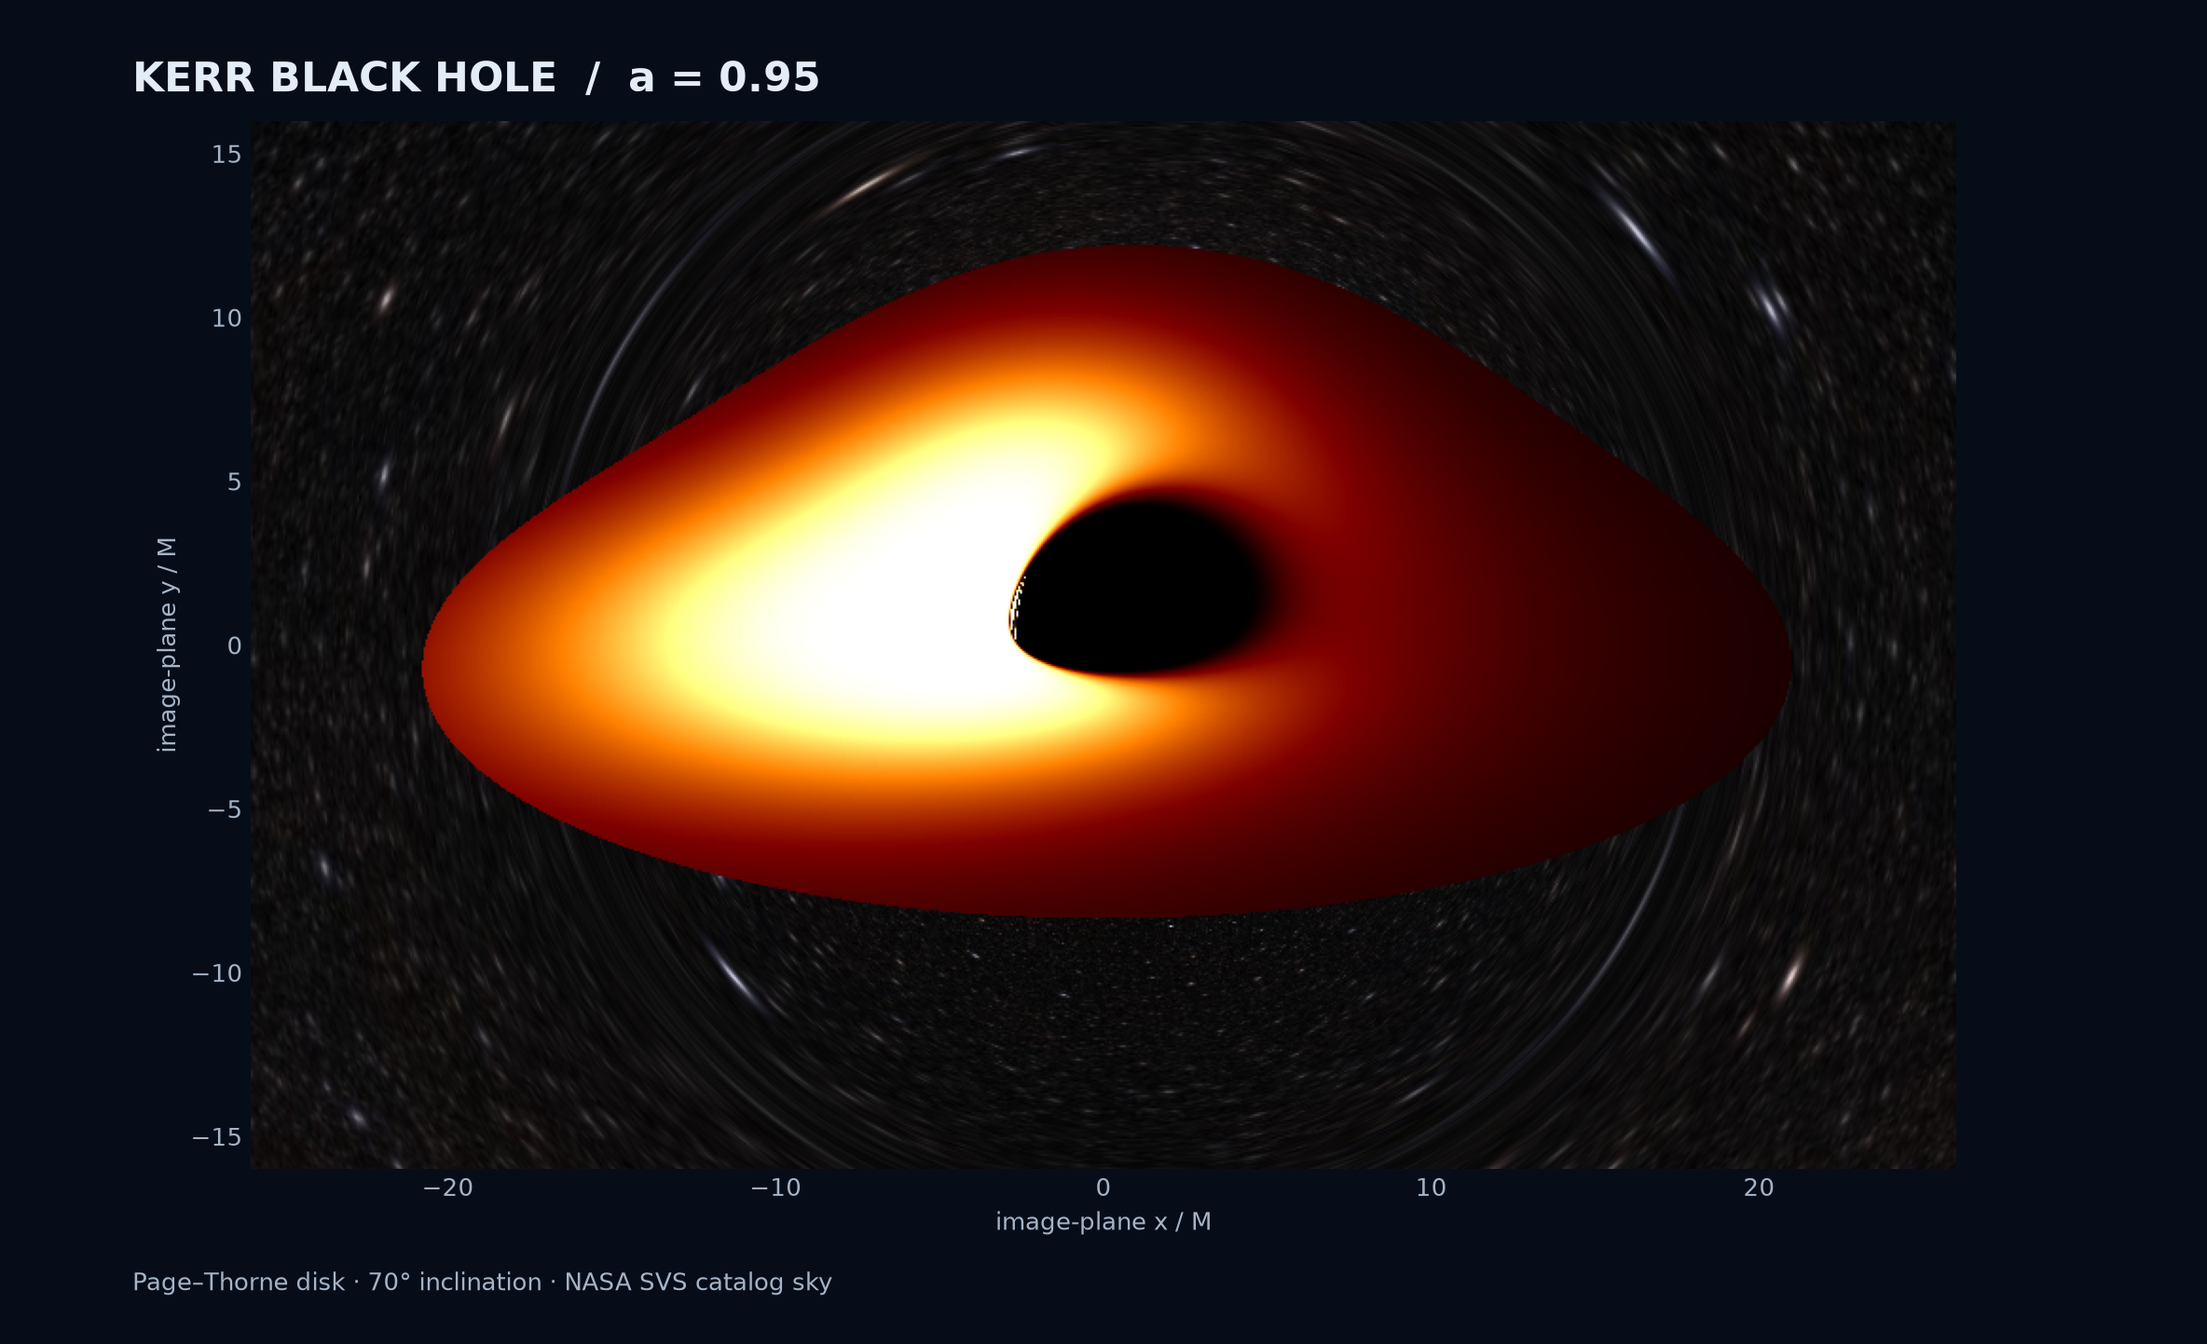
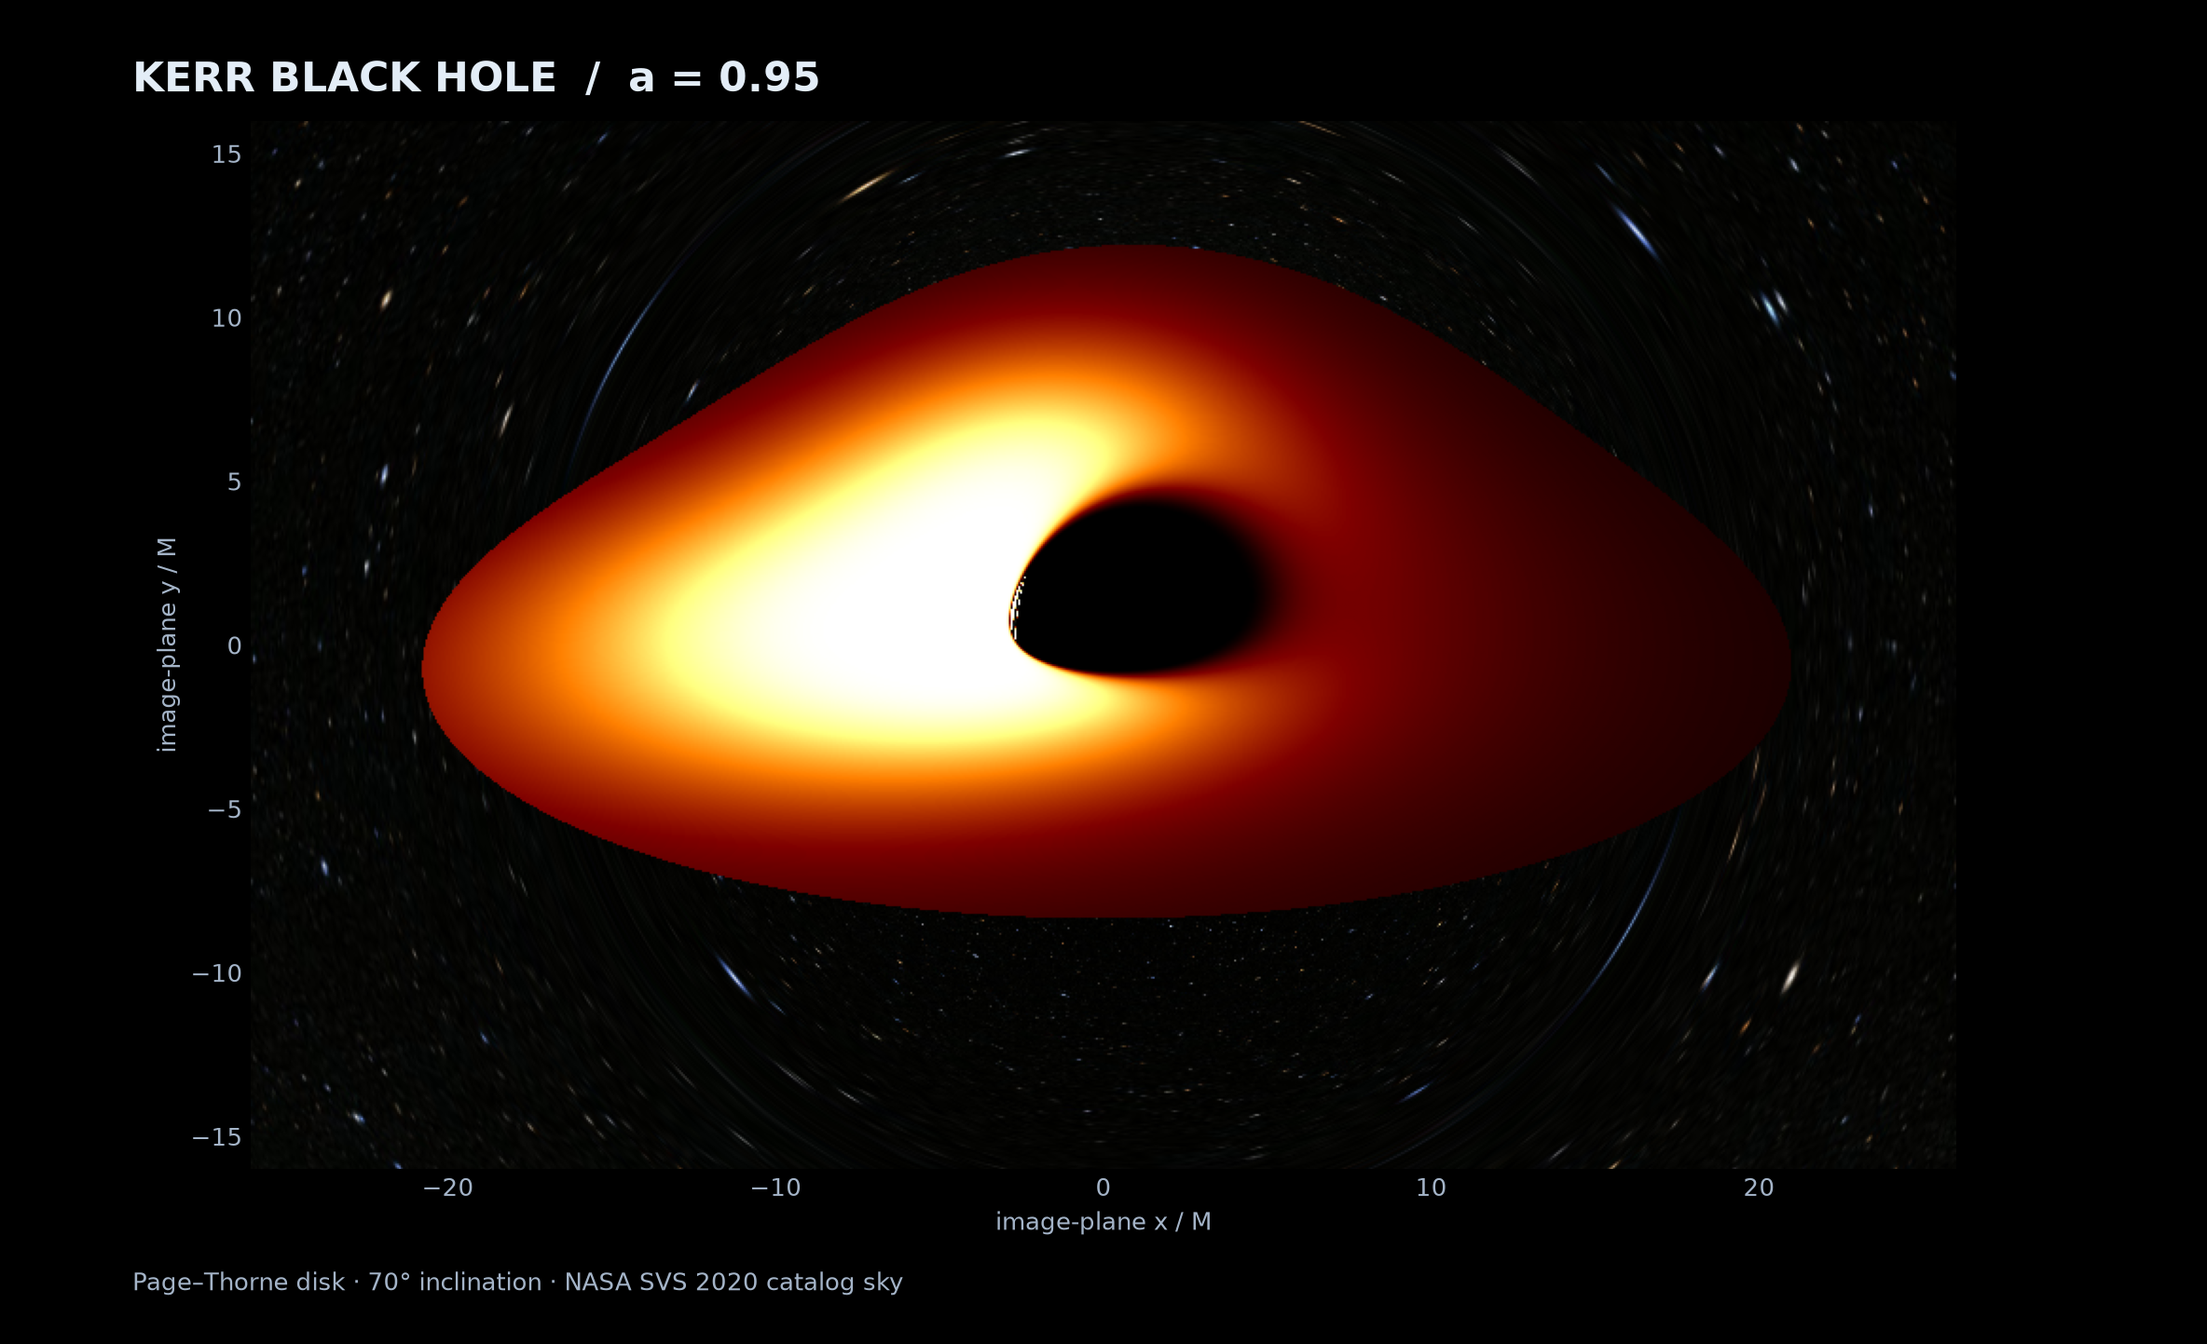
Restore gallery with colored catalog sky and black backgrounds

diff --git a/python/grayt/web/observer.css b/python/grayt/web/observer.css
@@ -1,9 +1,9 @@
-#observer-view{margin:32px 0 48px;background:#0d1420;border:1px solid #29384c;border-radius:14px;padding:24px}
+#observer-view{margin:32px 0 48px;background:#000;border:1px solid #333;border-radius:14px;padding:24px}
 #observer-view h2{font-size:28px;margin:0 0 10px}
 #observer-view .observer-toolbar{display:flex;flex-wrap:wrap;gap:14px;align-items:center;margin:16px 0}
-#observer-view button,#observer-view select{font:inherit;background:#1a293c;color:#e8eff9;border:1px solid #425974;border-radius:7px;padding:8px 12px;max-width:100%}
+#observer-view button,#observer-view select{font:inherit;background:#222;color:#e8eff9;border:1px solid #555;border-radius:7px;padding:8px 12px;max-width:100%}
 #observer-view button{cursor:pointer}
-#observer-view button:hover{background:#2a405b}
+#observer-view button:hover{background:#333}
 #observer-view :focus-visible{outline:2px solid #94d5ff;outline-offset:3px}
 #observer-view label{display:flex;gap:10px;align-items:center;flex-wrap:wrap;min-width:0}
 #observer-view input[type=range]{accent-color:#89c9fa;min-width:80px;max-width:100%}
@@ -13,7 +13,7 @@
 #observer-canvas{display:block;width:100%;height:100%;touch-action:none;cursor:grab}
 #observer-canvas:active{cursor:grabbing}
 #observer-poster{position:absolute;inset:0;pointer-events:none;height:100%;object-fit:contain;border-radius:0}
-#observer-position{position:absolute;top:12px;left:12px;background:#060b13bb;color:#dae5f4;font-size:13px;border-radius:5px;padding:4px 9px;pointer-events:none}
+#observer-position{position:absolute;top:12px;left:12px;background:#000c;color:#dae5f4;font-size:13px;border-radius:5px;padding:4px 9px;pointer-events:none}
 #observer-status{font-size:14px;min-height:24px;margin:8px 0}
 #observer-view details{color:#b9c5d6;font-size:14px;margin-top:15px}
 #observer-view summary{cursor:pointer}

diff --git a/examples/model_gallery.py b/examples/model_gallery.py
@@ -51,7 +51,7 @@ if(this.open&&!this.dataset.loaded){this.dataset.loaded='true';this.querySelecto
         coordinates = (
             '<!doctype html><html lang="en"><meta charset="utf-8">'
             '<meta name="viewport" content="width=device-width,initial-scale=1">'
-            "<style>body{margin:0;background:#090d16;color:#dce4ef;font:16px/1.6 system-ui}"
+            "<style>body{margin:0;background:#000;color:#dce4ef;font:16px/1.6 system-ui}"
             ".interactive-plot{margin:18px 0;border-radius:12px;overflow:hidden}</style>"
             + interactive
             + "</html>"
@@ -123,14 +123,14 @@ if(this.open&&!this.dataset.loaded){this.dataset.loaded='true';this.querySelecto
         """<!doctype html><html lang="en"><meta charset="utf-8">
 <meta name="viewport" content="width=device-width,initial-scale=1">
 <title>GRAVTRACER — stationary models</title>
-<style>body{background:#090d16;color:#dce4ef;font:16px/1.6 system-ui;margin:32px auto;max-width:1400px;padding:0 24px}
+<style>body{background:#000;color:#dce4ef;font:16px/1.6 system-ui;margin:32px auto;max-width:1400px;padding:0 24px}
 h1{font-size:36px}h2{font-size:19px}a{color:#8fcaff}img,video{width:100%;height:auto;border-radius:8px}
-main{display:grid;grid-template-columns:repeat(auto-fit,minmax(min(100%,360px),1fr));gap:24px}article{background:#131b28;padding:20px;border-radius:12px}
+main{display:grid;grid-template-columns:repeat(auto-fit,minmax(min(100%,360px),1fr));gap:24px}article{background:#111;padding:20px;border-radius:12px}
 p{color:#b9c5d6}.intro{max-width:960px;margin-bottom:32px}
 .interactive-section{margin:32px 0 48px}.interactive-section>h2{font-size:28px}
-.interactive-plot{background:#0d1420;border:1px solid #29384c;border-radius:12px;overflow:hidden;margin:18px 0}
+.interactive-plot{background:#000;border:1px solid #333;border-radius:12px;overflow:hidden;margin:18px 0}
 #coordinate-diagrams{margin:24px 0 40px}#coordinate-diagrams>summary{cursor:pointer;font-size:20px}
-.desktop-launch{display:inline-block;padding:8px 14px;background:#243b53;border:1px solid #557b9c;border-radius:7px;text-decoration:none}
+.desktop-launch{display:inline-block;padding:8px 14px;background:#222;border:1px solid #555;border-radius:7px;text-decoration:none}
 #browser-preview{margin:24px 0}summary{cursor:pointer}
 </style>
 <h1>Stationary spacetimes and light</h1><div class="intro">
@@ -237,7 +237,7 @@ def models():
 
 
 def save_panel(image, path, title, note):
-    fig, ax = plt.subplots(figsize=(10, 6), facecolor="#090d16")
+    fig, ax = plt.subplots(figsize=(10, 6), facecolor="black")
     image.plot(ax)
     ax.set_title(title, color="white", loc="left", pad=14)
     ax.set_facecolor("black")
@@ -282,8 +282,8 @@ def ray_movie(path, frames=96):
     np.savez_compressed(
         path.with_suffix(".npz"), **{f"ray_{i}": v for i, v in enumerate(traces)}
     )
-    fig = plt.figure(figsize=(9.6, 7.2), dpi=100, facecolor="#090d16")
-    ax = fig.add_subplot(111, projection="3d", facecolor="#090d16")
+    fig = plt.figure(figsize=(9.6, 7.2), dpi=100, facecolor="black")
+    ax = fig.add_subplot(111, projection="3d", facecolor="black")
     angle = np.linspace(0, 2 * np.pi, 100)
     radius = np.linspace(st.isco, 20, 14)
     aa, rr = np.meshgrid(angle, radius)
@@ -301,7 +301,7 @@ def ray_movie(path, frames=96):
         rh * np.cos(u) * np.sin(v),
         rh * np.sin(u) * np.sin(v),
         rh * np.cos(v),
-        color="#10141e",
+        color="#050505",
     )
     for i, pts in enumerate(traces):
         ax.plot(
@@ -321,7 +321,7 @@ def ray_movie(path, frames=96):
     ax.set_box_aspect((1, 1, 1))
     for axis in (ax.xaxis, ax.yaxis, ax.zaxis):
         axis.label.set_color("#c0cadd")
-        axis.set_pane_color((0.06, 0.08, 0.12, 1))
+        axis.set_pane_color((0, 0, 0, 1))
     ax.tick_params(colors="#c0cadd")
     ax.set_title(
         "Kerr a=0.8 | null geodesics around a flat disk", color="white", pad=18
@@ -405,7 +405,7 @@ def main():
         )
         thumbnails.append((title, image.rgb.copy()))
         print(f"{slug}: {counts}; {records[-1]['seconds']:.1f}s", flush=True)
-    fig, axes = plt.subplots(4, 4, figsize=(20, 13), facecolor="#090d16")
+    fig, axes = plt.subplots(4, 4, figsize=(20, 13), facecolor="black")
     for ax, (title, rgb) in zip(axes.ravel(), thumbnails):
         ax.imshow(rgb.transpose(1, 0, 2), origin="lower")
         ax.set_title(title, color="white", fontsize=10)

diff --git a/examples/readme_figures.py b/examples/readme_figures.py
@@ -13,7 +13,6 @@ import matplotlib
 
 matplotlib.use("Agg")
 import matplotlib.pyplot as plt
-from matplotlib.colors import LinearSegmentedColormap
 from matplotlib.lines import Line2D
 import numpy as np
 
@@ -22,7 +21,7 @@ import grayt
 
 ROOT = Path(__file__).resolve().parents[1]
 IMAGES = ROOT / "docs" / "images"
-BG = "#070d18"
+BG = "#000000"
 INK = "#e3edf7"
 MUTED = "#a4b4c8"
 
@@ -52,48 +51,8 @@ def disk_figure():
     ax.xaxis.label.set_color(MUTED)
     ax.yaxis.label.set_color(MUTED)
     fig.text(0.06, 0.955, "KERR BLACK HOLE  /  a = 0.95", color=INK, fontsize=17, weight="bold", va="top")
-    fig.text(0.06, 0.04, "Page–Thorne disk · 70° inclination · NASA SVS catalog sky", color=MUTED, fontsize=10)
+    fig.text(0.06, 0.04, "Page–Thorne disk · 70° inclination · NASA SVS 2020 catalog sky", color=MUTED, fontsize=10)
     fig.savefig(IMAGES / "kerr_disk.png", dpi=185, facecolor=BG)
-    plt.close(fig)
-
-
-def grid_figure():
-    # Flamm's paraboloid embeds a t=constant Schwarzschild equatorial slice:
-    # dl² = dr²/(1-2M/r) + r² dφ² and z(r)=2√(2M(r-2M)).
-    mass = 1.0
-    rh = 2 * mass
-    radii = np.linspace(rh + 0.015, 21, 110)
-    angles = np.linspace(0, 2 * np.pi, 200)
-    rr, pp = np.meshgrid(radii, angles)
-    xx, yy = rr * np.cos(pp), rr * np.sin(pp)
-    zz = 2 * np.sqrt(2 * mass * (rr - rh))
-    cmap = LinearSegmentedColormap.from_list(
-        "curvature", ["#0c1728", "#153952", "#276a82", "#77adbd"]
-    )
-    fig = plt.figure(figsize=(12.8, 7.8), facecolor=BG)
-    ax = fig.add_axes((0.03, 0.08, 0.94, 0.82), projection="3d", facecolor=BG)
-    face = cmap((rr - rh) / (radii[-1] - rh))
-    ax.plot_surface(xx, yy, zz, facecolors=face, rstride=2, cstride=2,
-                    linewidth=0, antialiased=True, shade=False, alpha=0.92)
-    for radius in [2.25, 2.8, 3.5, 4.5, 6, 8, 11, 15, 20]:
-        z = 2 * np.sqrt(2 * mass * (radius - rh))
-        ax.plot(radius * np.cos(angles), radius * np.sin(angles), z,
-                color="#b2d6dc", lw=0.7, alpha=0.75)
-    for angle in np.linspace(0, 2 * np.pi, 25)[:-1]:
-        ax.plot(radii * np.cos(angle), radii * np.sin(angle),
-                2 * np.sqrt(2 * mass * (radii - rh)),
-                color="#b2d6dc", lw=0.65, alpha=0.65)
-    ax.plot(rh * np.cos(angles), rh * np.sin(angles), np.zeros_like(angles),
-            color="#e5c88a", lw=2.3)
-    ax.set(xlim=(-21, 21), ylim=(-21, 21), zlim=(0, 13))
-    ax.set_box_aspect((1, 1, 0.43), zoom=1.38)
-    ax.view_init(elev=28, azim=-58)
-    ax.set_axis_off()
-    fig.text(0.055, 0.955, "SPATIAL CURVATURE  /  SCHWARZSCHILD", color=INK,
-             fontsize=17, weight="bold", va="top")
-    fig.text(0.055, 0.04, "Equatorial t = constant slice · Flamm embedding · G = c = M = 1",
-             color=MUTED, fontsize=10)
-    fig.savefig(IMAGES / "spatial_curvature.png", dpi=185, facecolor=BG)
     plt.close(fig)
 
 
@@ -122,7 +81,7 @@ def rays_figure():
         u, v = np.meshgrid(np.linspace(0, 2 * np.pi, 48), np.linspace(0, np.pi, 28))
         rh = spacetime.capture_radius
         ax.plot_surface(rh * np.cos(u) * np.sin(v), rh * np.sin(u) * np.sin(v),
-                        rh * np.cos(v), color="#02050b", edgecolor="#36536e",
+                        rh * np.cos(v), color="#000000", edgecolor="#36536e",
                         linewidth=0.17, shade=False, zorder=5)
         for points, kind in rays:
             if panel == 2:
@@ -157,11 +116,11 @@ def rays_figure():
 
 def main():
     parser = argparse.ArgumentParser(description=__doc__)
-    parser.add_argument("--only", choices=("disk", "grid", "rays"),
+    parser.add_argument("--only", choices=("disk", "rays"),
                         help="regenerate one figure")
     args = parser.parse_args()
     IMAGES.mkdir(parents=True, exist_ok=True)
-    jobs = {"disk": disk_figure, "grid": grid_figure, "rays": rays_figure}
+    jobs = {"disk": disk_figure, "rays": rays_figure}
     for name, job in jobs.items():
         if args.only is None or name == args.only:
             print(f"Rendering {name}...", flush=True)

diff --git a/python/grayt/sky.py b/python/grayt/sky.py
@@ -76,7 +76,7 @@ class CelestialSky:
         """
         from PIL import Image
 
-        path = Path(__file__).resolve().parent / "assets" / "nasa_starmap_4k.jpg"
+        path = Path(__file__).resolve().parent / "assets" / "nasa_starmap_2020_4k.jpg"
         with Image.open(path) as image:
             rgb = np.asarray(image.convert("RGB"), dtype=float) / 255
         # NASA's right ascension increases leftward; grayt's phi increases
@@ -84,8 +84,8 @@ class CelestialSky:
         return cls(
             rgb[:, ::-1],
             longitude=longitude,
-            name="NASA SVS Deep Star Maps",
-            source="https://svs.gsfc.nasa.gov/3895/",
+            name="NASA SVS Deep Star Maps 2020",
+            source="https://svs.gsfc.nasa.gov/4851/",
         )
 
     @classmethod

diff --git a/examples/observer_gallery.py b/examples/observer_gallery.py
@@ -171,7 +171,7 @@ comparisons. Imported metric tables and volume transfer use the Python renderer.
     (output / "observer_preview.html").write_text(
         '<!doctype html><html lang="en"><meta charset="utf-8">'
         '<meta name="viewport" content="width=device-width,initial-scale=1">'
-        "<style>body{margin:0;background:#090d16;color:#dce4ef;font:16px/1.6 system-ui}a{color:#8fcaff}</style>"
+        "<style>body{margin:0;background:#000;color:#dce4ef;font:16px/1.6 system-ui}a{color:#8fcaff}</style>"
         + page
         + "</html>"
     )

diff --git a/examples/interactive_gallery.py b/examples/interactive_gallery.py
@@ -16,7 +16,7 @@ import plotly.io as pio
 import grayt
 from grayt.geometry import bl_to_cart
 
-BACKGROUND = "#0d1420"
+BACKGROUND = "#000000"
 CONFIG = {
     "responsive": True,
     "displaylogo": False,
@@ -70,7 +70,7 @@ def sphere(radius, *, star=False):
         scale = [[0, "#8b351c"], [0.4, "#ed8625"], [1, "#fff1a1"]]
     else:
         color = np.zeros_like(theta)
-        scale = [[0, "#202a3a"], [1, "#202a3a"]]
+        scale = [[0, "#111111"], [1, "#111111"]]
     return go.Surface(
         x=xyz[..., 0],
         y=xyz[..., 1],

diff --git a/docs/images/SOURCES.md b/docs/images/SOURCES.md
@@ -1,15 +1,19 @@
 # Image sources
 
-`python/grayt/assets/nasa_starmap_4k.jpg` is the 4K celestial-coordinate
-JPEG from [NASA Goddard Scientific Visualization Studio's Deep Star Maps](https://svs.gsfc.nasa.gov/3895/)
-(visualization by Ernie Wright). Credit: NASA/Goddard Space Flight Center
-Scientific Visualization Studio. NASA SVS says its visualizations are
+`python/grayt/assets/nasa_starmap_2020_4k.jpg` is a display JPEG derived from
+the 4K OpenEXR celestial map in [NASA Goddard Scientific Visualization Studio's
+Deep Star Maps 2020](https://svs.gsfc.nasa.gov/4851/) (visualization by Ernie
+Wright). The map draws positions, brightness, and colors from star catalogs.
+For the bundled JPEG, the linear EXR was raised by two exposure stops and
+mapped to display values with FFmpeg's Mobius tonemap (`param=0.3`,
+`desat=0`); positions were not changed. Credit: NASA/Goddard Space Flight
+Center Scientific Visualization Studio. NASA SVS says its visualizations are
 [public domain unless otherwise noted](https://svs.gsfc.nasa.gov/).
-The bundled loader reverses the source image's horizontal axis to match
-GRAVTRACER's longitude convention. The source image itself is unmodified.
+The bundled loader reverses the source map's horizontal axis to match
+GRAVTRACER's longitude convention.
 
-`kerr_disk.png`, `spatial_curvature.png`, and `ray_trajectories_3d.png` are
-generated by `examples/readme_figures.py` from the project's rendering code
-and the bundled NASA sky map. Disk colors are display mappings. The Flamm
-surface is an embedding of a Schwarzschild spatial slice; the Kerr rays use a
-pseudo-Cartesian coordinate embedding.
+`kerr_disk.png` and `ray_trajectories_3d.png` are generated by
+`examples/readme_figures.py` from the project's rendering code and the bundled
+NASA sky map. `model_gallery.png` is generated by `examples/model_gallery.py`.
+Disk colors are display mappings. The Kerr rays use a pseudo-Cartesian
+coordinate embedding.

diff --git a/README.md b/README.md
@@ -9,7 +9,7 @@ geodesic core powers the Python package `grayt` and the `gravtracer` CLI.
 ![A lensed Page–Thorne disk around a spinning Kerr black hole](docs/images/kerr_disk.png)
 
 *Kerr black hole, spin 0.95, viewed at 70°. The background uses
-[NASA SVS Deep Star Maps](https://svs.gsfc.nasa.gov/3895/); disk colors are a
+[NASA SVS Deep Star Maps 2020](https://svs.gsfc.nasa.gov/4851/); disk colors are a
 display mapping, not measured spectra.*
 
 ## Install
@@ -65,12 +65,12 @@ gravtracer render configs/celestial_kerr.yml -o celestial.png --npz
   desktop viewer for the supported Kerr and q-metric scenes.
 - Scientific `.npz` archives, reproducible galleries, and camera movies.
 
-## Geometry and ray paths
+## Gallery and ray paths
 
-![A curved grid on a Schwarzschild spatial slice](docs/images/spatial_curvature.png)
+![Gallery of GRAVTRACER black holes, stars, and other stationary models](docs/images/model_gallery.png)
 
-*Flamm's embedding of an equatorial, constant-time Schwarzschild spatial
-slice. The grid illustrates its intrinsic spatial curvature.*
+*Stationary model gallery with the catalog sky and black background. Disk and
+surface colors are display mappings.*
 
 ![Two 3D views of Kerr light-ray trajectories](docs/images/ray_trajectories_3d.png)
 

diff --git a/docs/custom_models.md b/docs/custom_models.md
@@ -67,7 +67,7 @@ silently redefined. Both models are Kerr-only. A PageThorneDisk stores its Kerr
 parameters and rejects reuse with a different spin.
 
 `CelestialSky.nasa_starmap()` loads the bundled NASA Scientific Visualization
-Studio [Deep Star Maps](https://svs.gsfc.nasa.gov/3895/) image, based on star
+Studio [Deep Star Maps 2020](https://svs.gsfc.nasa.gov/4851/) image, based on star
 catalogs. `CelestialSky("map.png")` accepts a user-provided equirectangular RGB map.
 The bundled loader reverses NASA's leftward right-ascension axis and centers
 RA=0 at `phi=0` for display. This is a coordinate convention, not an
